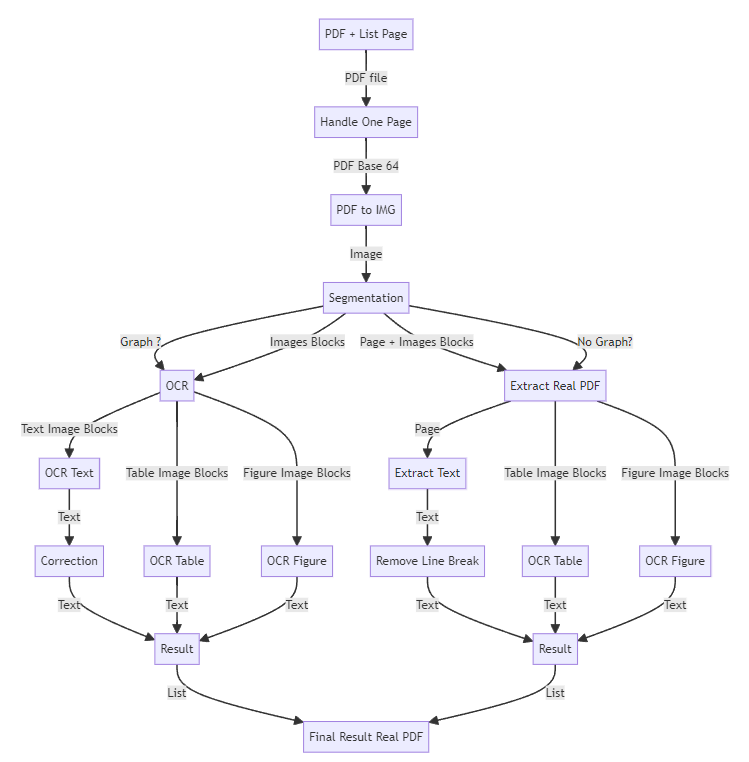
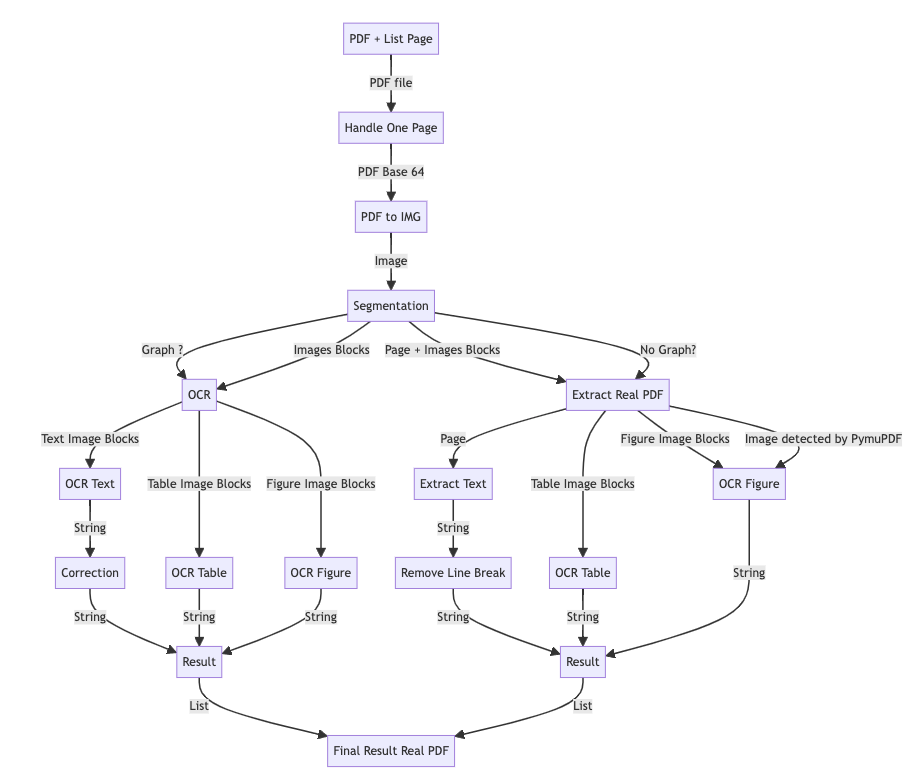
update

Changed region(s): [[0.0307, 0.0, 0.9826, 0.9961]]

diff --git a/ExtractPPTX.md b/ExtractPPTX.md
@@ -1,0 +1,130 @@
+# Extract PPTX
+
+### Description
+
+This function is used to extract content from PowerPoint files.
+
+### Library requirements
+
+* sanic
+* logging
+* asyncio
+* io
+* aiohttp
+* base64
+* random
+* inspect
+* pptx
+* os
+* xml
+* lxml
+* datetime
+
+You can install all requirements by running:
+
+```agsl
+pip3 install -r requirements.txt
+```
+
+or
+
+```agsl
+pip install -r requirements.txt
+```
+
+And now you can launch the app locally:
+
+```agsl
+python3 app.py
+```
+
+or
+
+```agsl
+python app.py
+```
+
+### Endpoint
+
+/extract-pptx
+
+#### port: 8009
+
+#### Headers
+
+"Content-Type": "multipart/form-data"
+
+#### Error Code
+
+500 : Error in form data
+400 : No file provided
+415 : Format not allowed or unsupported
+
+#### Input
+
+Key: file  
+Value: a PPTX file
+
+#### Output
+
+JSON with the file name and a string list of content recognition
+
+```json
+{
+    "file_name": "Etude-de-marche-mars-2022-vf.pptx",
+    "result_extract_ppt": [
+        "This slide discusses the importance of conducting market research to gather information about the market environment, customers, and competitors in order to determine the market trends, target customer segments, sales approach, and projected revenue.\n\nThe slide outlines three key areas to research:\n1. The market environment - This involves understanding the overall state","This slide outlines the key elements that make up the environment in which a product or service operates. The slide lists several different types of stakeholders or \"intervenants\" that are involved in this environment:\n\n\"Offre\" (Supply) - This refers to the producers or suppliers of the product or service.\n\"Demande\" (Demand) - This refers to the consumers or customers who are the end users of the product or service.\n\"Distributeurs\" (Distributors) - These are the intermediaries who help get the product or service from the producers to the consumers.\n\"Pr"]
+}
+```
+![alt text](<Graph/ExtractPPTX_graph.png>)
+
+#### extract_text_from_pptx
+
+The "extract_text_from_pptx" function takes the PowerPoint file and the file name as input if it is in PPTX format and returns the extraction result.
+
+Each slide is processed by the "extract_one_page" function. This allows multiple slides to be processed simultaneously. The results are then added to a list of strings.
+
+#### extract_one_page
+
+The "extract_one_page" function takes the file name, the slide being processed, and its index as input. It returns a string with the extraction result of the slide.
+
+For each element on the slide, depending on the type of element, the "extract_text_from_different_type" function is applied to extract the content of each type of element. Then, we check for any tabulation issues instead of line breaks with the "tab_to_jump" function. The result is sent to the "recompose_slide_information" function to reorder the slide elements to maintain reading flow.
+
+#### extract_text_from_different_type
+
+The "extract_text_from_different_type" function takes the element to be processed, the slide, the file name, and its index as input. It returns the text of the relevant element.
+
+For elements of type "text" (type number: 17, 5, 1) that are not empty, we retrieve the text with the "recover_text" function, which extracts and returns the text.
+
+For elements of type "placeholder" (object text or image)(14), we first check if it is text (1, 2, 3, 15, 4) or an image (7, 16). For images, we retrieve the content with the "ocr_image" function, which converts the image to base 64 and sends it to the **"OCR Figure"** application. For text, the element is sent to the "recover_text" function.
+
+For elements of type "image" (13), they are sent to the "ocr_image" function.
+
+For elements of type "table" (19), they are sent to the "recover_data_table" function.
+
+For elements of type "smart art" (GraphicFrame), they are sent to the "recorver_data_smart_art" function.
+
+For elements of type "chart" (3), they are sent to the "recover_data_chart" function.
+
+#### recompose_slide_information
+
+The "recompose_slide_information" function takes the slide text as input and returns the ordered text. The input is processed by Claude 3 to manage the reordering of slide elements.
+
+#### recover_data_table
+
+The "recover_data_table" function takes elements of type "table" as input and returns the content in CSV format.
+
+We loop through the columns of each row, retrieve the text from each cell, and add a ';' as a separator.
+
+#### recorver_data_smart_art
+
+The "recorver_data_smart_art" function takes elements of type "smart art" and the slide as input. It returns the text content of the smart art.
+
+We retrieve the content using the slide's XML with the "diagram" namespace.
+
+#### recover_data_chart
+
+The "recover_data_chart" function takes elements of type "chart" and the slide as input and returns the result in CSV format.
+
+We retrieve all chart elements with the namespace "/drawingml/2006/chart" and if we find the "chart" relation, we retrieve the following information from the chart: ```{"title": "", "categories": [], "data": []}```. We check with the "is_date_format" function if there is a date in the chart and if it is in the correct format. If it is not in the correct format, the date will be formatted correctly using the "excel_date_to_datetime" function. The data from the table is retrieved with the './/c:ser' tag for series. The chart information is then formatted as CSV using the "json_to_csv" function.
+

diff --git a/ExtractRealPDF.md b/ExtractRealPDF.md
@@ -97,7 +97,7 @@ The "pdf_to_img_and_segmentation" function takes the PDF file and the page numbe
 
 #### ocr_and_correction_image_to_text
 
-The "ocr_and_correction_image_to_text" function takes the resulting blocks from segmentation as input and returns a list of results. It performs content extraction from the pages based on the type of each block (text, table, image, graph). If it is text, the content is sent to the "ocr_and_correction" function. If it is a table, the content is sent to the **"OCR Table"** application. If it is an image or graph, the content is sent to the **"OCR Figure"** application. Then, all results are stored in a list.
+The "ocr_and_correction_image_to_text" function takes the resulting blocks from segmentation as input and returns a list of results. It performs content extraction from the pages based on the type of each block (text, table, image, graph). If it is text, the content is sent to the "ocr_and_correction" function. If it is a table, the content is sent to the **"OCR Table"** application. If it is an image or graph, the content is sent to the **"OCR Figure"** application. The image is also detected by the library PymuPDF. Then, all results are stored in a list.
 
 #### ocr_and_correction
 
